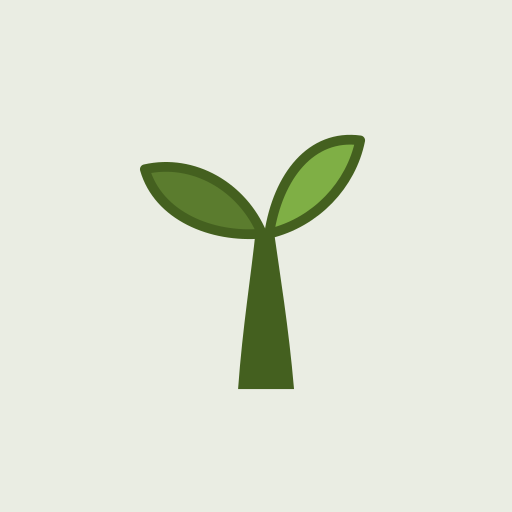
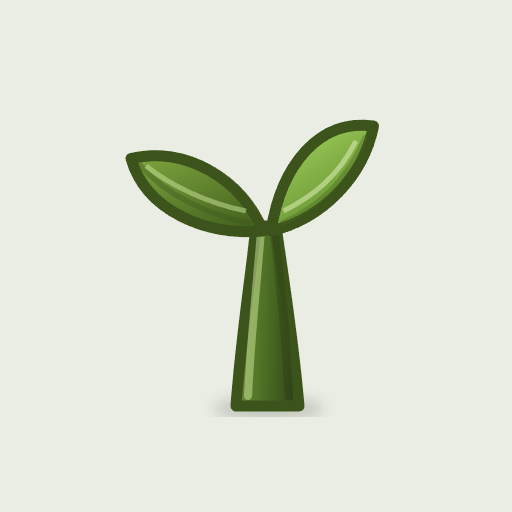
feat(brand): house-style the nibbin sprout mark + wordmark glyph
Restyle the sprout mark (nibbin-mark.svg) and the wordmark's living glyph (Wordmark.tsx + nibbin-wordmark-light.svg) with the house style: per-leaf gradients, top-left key light, midrib veins, a cylindrical shaded stem (outline + key-light/core-shadow), and a soft contact shadow. Nudge the wordmark's trailing n 1u left to tighten kerning. Regenerate all rasters from the new art: app-icon 512/1024/maskable, apple-icon, icon.png, favicon-16/32, both favicon.ico, and og-image.

Changed region(s): [[0.25, 0.2188, 0.75, 0.8125]]

diff --git a/apps/web/app/(marketing)/Wordmark.tsx b/apps/web/app/(marketing)/Wordmark.tsx
@@ -18,24 +18,52 @@ export function Wordmark({ height = 22 }: { height?: number }) {
         d="M10.74 70L10.74 52.75L10.74 40.43L18.19 40.43L18.25 50.85L19.03 50.85Q19.59 47.04 20.8 44.58Q22 42.11 24.07 40.88Q26.14 39.65 29.17 39.65Q34.15 39.65 36.73 43.06Q39.3 46.48 39.3 53.59L39.3 70L30.23 70L30.23 54.66Q30.23 50.9 29.11 49.11Q27.99 47.32 25.75 47.32Q23.85 47.32 22.5 48.55Q21.16 49.78 20.46 52.16Q19.76 54.54 19.76 58.07L19.76 70ZM42.93 70L42.93 40.43L51.95 40.43L51.95 70ZM47.41 37.3Q44.83 37.3 43.46 36.23Q42.09 35.17 42.09 33.1Q42.09 30.97 43.46 29.88Q44.83 28.78 47.41 28.78Q50.04 28.78 51.41 29.88Q52.79 30.97 52.79 33.1Q52.79 35.11 51.41 36.2Q50.04 37.3 47.41 37.3ZM74.15 70.78Q71.51 70.78 69.5 69.69Q67.48 68.6 66.19 66.42Q64.91 64.23 64.4 61.04L63.67 61.04L63.56 70L55.95 70L55.95 57.57L55.95 30.24L64.96 30.24L64.96 39.48Q64.96 40.94 64.79 42.53Q64.63 44.13 64.35 45.86Q64.07 47.6 63.73 49.5L64.63 49.5Q65.3 46.14 66.59 43.96Q67.87 41.78 69.83 40.74Q71.79 39.7 74.43 39.7Q77.9 39.7 80.47 41.5Q83.05 43.29 84.48 46.7Q85.91 50.12 85.91 55.1Q85.91 60.2 84.42 63.7Q82.94 67.2 80.28 68.99Q77.62 70.78 74.15 70.78ZM70.9 63.56Q72.63 63.56 73.92 62.47Q75.21 61.38 75.88 59.56Q76.55 57.74 76.55 55.38Q76.55 52.98 75.91 51.13Q75.27 49.28 74.03 48.19Q72.8 47.1 70.95 47.1Q70 47.1 69.08 47.43Q68.15 47.77 67.4 48.47Q66.64 49.17 66.08 50.12Q65.52 51.07 65.21 52.28Q64.91 53.48 64.91 54.88L64.91 55.61Q64.91 57.29 65.33 58.72Q65.75 60.14 66.5 61.24Q67.26 62.33 68.38 62.94Q69.5 63.56 70.9 63.56ZM106.88 70.78Q104.24 70.78 102.23 69.69Q100.21 68.6 98.92 66.42Q97.64 64.23 97.13 61.04L96.4 61.04L96.29 70L88.68 70L88.68 57.57L88.68 30.24L97.69 30.24L97.69 39.48Q97.69 40.94 97.52 42.53Q97.36 44.13 97.08 45.86Q96.8 47.6 96.46 49.5L97.36 49.5Q98.03 46.14 99.32 43.96Q100.6 41.78 102.56 40.74Q104.52 39.7 107.16 39.7Q110.63 39.7 113.2 41.5Q115.78 43.29 117.21 46.7Q118.64 50.12 118.64 55.1Q118.64 60.2 117.15 63.7Q115.67 67.2 113.01 68.99Q110.35 70.78 106.88 70.78ZM103.63 63.56Q105.36 63.56 106.65 62.47Q107.94 61.38 108.61 59.56Q109.28 57.74 109.28 55.38Q109.28 52.98 108.64 51.13Q108 49.28 106.76 48.19Q105.53 47.1 103.68 47.1Q102.73 47.1 101.81 47.43Q100.88 47.77 100.13 48.47Q99.37 49.17 98.81 50.12Q98.25 51.07 97.94 52.28Q97.64 53.48 97.64 54.88L97.64 55.61Q97.64 57.29 98.06 58.72Q98.48 60.14 99.23 61.24Q99.99 62.33 101.11 62.94Q102.23 63.56 103.63 63.56Z"
         fill="#23291A"
       />
+      <defs>
+        <linearGradient id="wmStem" x1="0" y1="0.1" x2="1" y2="0.2">
+          <stop offset="0%" stopColor="#6E9136" />
+          <stop offset="52%" stopColor="#4C6E24" />
+          <stop offset="100%" stopColor="#34471A" />
+        </linearGradient>
+        <linearGradient id="wmLeafL" x1="0.05" y1="0.05" x2="0.7" y2="1">
+          <stop offset="0%" stopColor="#7CA23E" />
+          <stop offset="100%" stopColor="#46651F" />
+        </linearGradient>
+        <linearGradient id="wmLeafR" x1="0.1" y1="0" x2="0.7" y2="1">
+          <stop offset="0%" stopColor="#A6D45F" />
+          <stop offset="100%" stopColor="#5E8A2C" />
+        </linearGradient>
+      </defs>
       <g transform="translate(115.16 0)">
-        <path d="M5.4 70 C6 58 7.1 47 7.7 36.5 L10 36.5 C10.8 47 11.8 58 12.4 70 Z" fill="#44601F" />
+        <path
+          d="M5.4 70 C6 58 7.1 47 7.7 36.5 L10 36.5 C10.8 47 11.8 58 12.4 70 Z"
+          fill="url(#wmStem)"
+          stroke="#3C541C"
+          strokeWidth="1.2"
+          strokeLinejoin="round"
+        />
+        <path d="M6.7 68 C7.1 58 7.9 47 8.4 37.5" fill="none" stroke="#CFE79C" strokeWidth="0.9" strokeLinecap="round" opacity="0.5" />
+        <path d="M11.1 68 C10.7 58 10 47 9.5 37.5" fill="none" stroke="#26380F" strokeWidth="1" strokeLinecap="round" opacity="0.3" />
         <path
           d="M8.6 37.5 C2.5 38 -4.2 35.5 -6.5 30 C-0.5 27.2 6.4 30.8 8.6 37.5 Z"
-          fill="#5B7C2E"
-          stroke="#44601F"
+          fill="url(#wmLeafL)"
+          stroke="#3C541C"
           strokeWidth="1.4"
           strokeLinejoin="round"
         />
+        <path d="M6 35.3 C1 34.8 -3.5 32.8 -6 30.3" fill="none" stroke="#3C541C" strokeWidth="0.7" opacity="0.38" />
+        <path d="M5 33.4 C1 33 -2.6 31.4 -5.2 29.9" fill="none" stroke="#CFE79C" strokeWidth="0.6" opacity="0.5" />
         <path
           d="M9 37.5 C15 36.6 21.5 33.6 23.5 28.6 C17.3 26.2 10.6 29.8 9 37.5 Z"
-          fill="#7FAF45"
-          stroke="#44601F"
+          fill="url(#wmLeafR)"
+          stroke="#3C541C"
           strokeWidth="1.4"
           strokeLinejoin="round"
         />
+        <path d="M11 35.3 C15.5 34.4 19.6 32 23 28.9" fill="none" stroke="#46651F" strokeWidth="0.7" opacity="0.38" />
+        <path d="M12 33.4 C15.6 32.5 18.8 30.6 21.6 28.3" fill="none" stroke="#DCEEB4" strokeWidth="0.6" opacity="0.55" />
       </g>
       <path
+        transform="translate(-1 0)"
         d="M131.41 70L131.41 52.75L131.41 40.43L138.85 40.43L138.91 50.85L139.69 50.85Q140.25 47.04 141.46 44.58Q142.66 42.11 144.73 40.88Q146.81 39.65 149.83 39.65Q154.81 39.65 157.39 43.06Q159.97 46.48 159.97 53.59L159.97 70L150.89 70L150.89 54.66Q150.89 50.9 149.77 49.11Q148.65 47.32 146.41 47.32Q144.51 47.32 143.17 48.55Q141.82 49.78 141.12 52.16Q140.42 54.54 140.42 58.07L140.42 70Z"
         fill="#23291A"
       />
